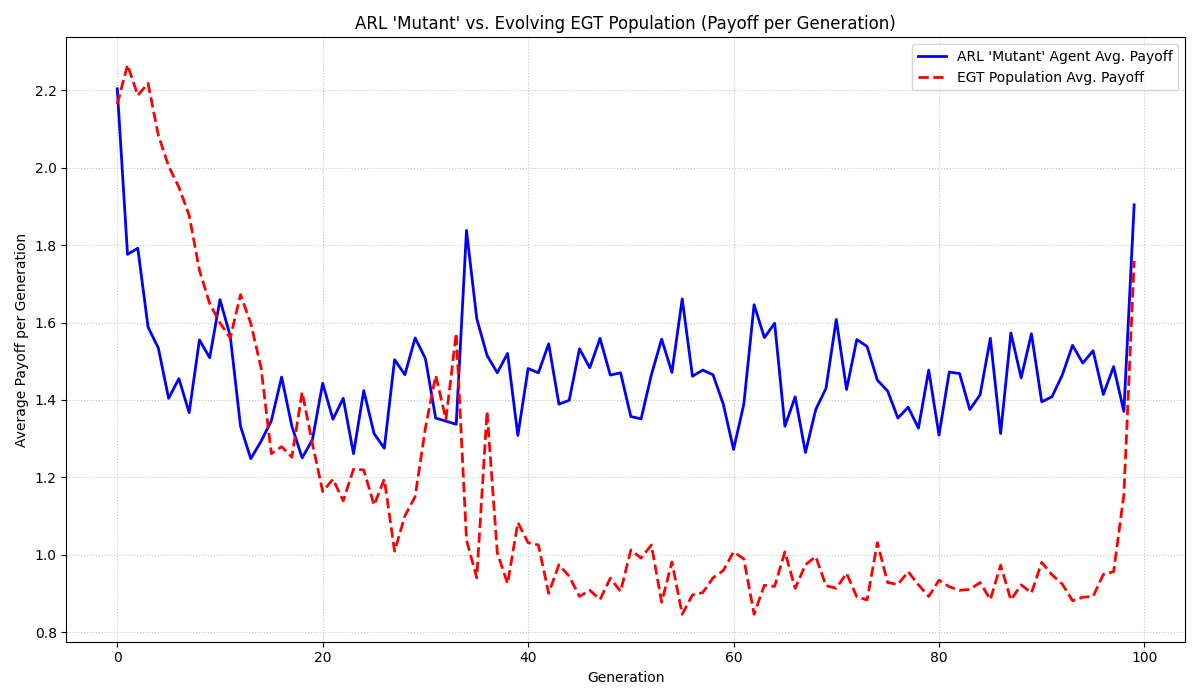
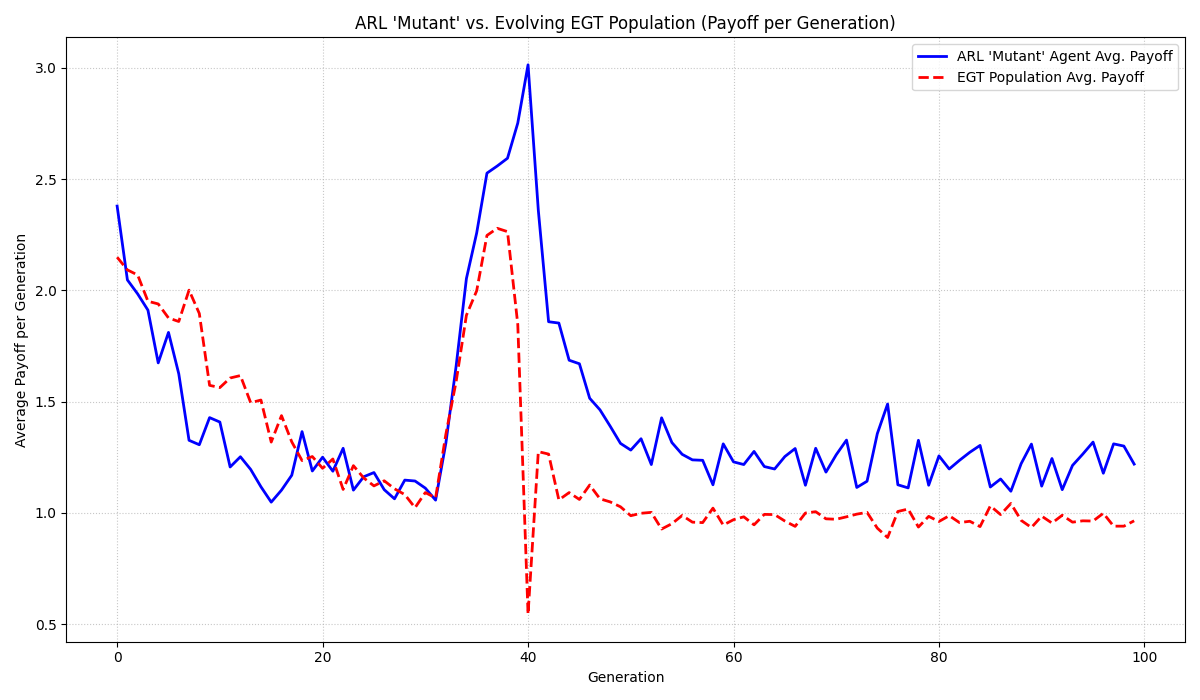
done?

diff --git a/test.py b/test.py
@@ -128,12 +128,82 @@ class ARLAgent:
         if self.epsilon > self.epsilon_min:
             self.epsilon *= self.epsilon_decay
 
-# --- 4. Main Simulation ---
+# --- 4. Plotting Function ---
+
+def plot_results(arl_payoff_history, egt_payoff_history, population_composition_history, payoff_gap_history, num_egt_agents):
+    """
+    Generates and saves the payoff, population, and gap plots.
+    """
+    
+    # --- Plot 1: Payoff Comparison ---
+    plt.figure(figsize=(12, 7))
+    plt.plot(arl_payoff_history, label="ARL 'Mutant' Agent Avg. Payoff", color='blue', linewidth=2)
+    plt.plot(egt_payoff_history, label="EGT Population Avg. Payoff", color='red', linestyle='--', linewidth=2)
+    plt.title("ARL 'Mutant' vs. Evolving EGT Population (Payoff per Generation)")
+    plt.xlabel("Generation")
+    plt.ylabel("Average Payoff per Generation")
+    plt.legend()
+    plt.grid(True, linestyle=':', alpha=0.7)
+    plt.tight_layout()
+    
+    plot1_filename = "arl_vs_egt_payoff.png"
+    plt.savefig(plot1_filename)
+    print(f"\nPayoff plot saved as '{plot1_filename}'")
+    plt.close() # Use close() to free memory without showing the plot
+
+    # --- Plot 2: Population Dynamics ---
+    pop_df = pd.DataFrame(population_composition_history).fillna(0)
+    # Ensure all strategies are columns, even if one dies out
+    for strategy in STRATEGIES:
+        if strategy not in pop_df.columns:
+            pop_df[strategy] = 0
+    pop_df = pop_df[STRATEGIES] # Re-order columns for consistency
+    
+    plt.figure(figsize=(12, 7))
+    # Create stacked area plot
+    plt.stackplot(pop_df.index, 
+                  [pop_df[strategy] for strategy in STRATEGIES], 
+                  labels=STRATEGIES,
+                  alpha=0.8)
+    
+    plt.title("EGT Population Dynamics Over Generations")
+    plt.xlabel("Generation")
+    plt.ylabel(f"Number of Agents (out of {num_egt_agents})")
+    plt.legend(loc='upper left')
+    plt.grid(True, linestyle=':', alpha=0.7)
+    plt.tight_layout()
+
+    plot2_filename = "arl_vs_egt_population.png"
+    plt.savefig(plot2_filename)
+    print(f"Population plot saved as '{plot2_filename}'")
+    plt.close()
+
+    # --- Plot 3: The "Exploitation Gap" ---
+    plt.figure(figsize=(12, 5))
+    plt.plot(payoff_gap_history, label="Payoff Gap (ARL - EGT)", color='green', linewidth=2)
+    
+    # Add a 'zero' line for reference
+    plt.axhline(0, color='black', linestyle='--', linewidth=1.0, label="No Difference (0.0)")
+    
+    plt.title("Exploitation Gap (ARL Agent vs. EGT Population)")
+    plt.xlabel("Generation")
+    plt.ylabel("Payoff Difference (ARL Payoff - EGT Payoff)")
+    plt.legend()
+    plt.grid(True, linestyle=':', alpha=0.7)
+    plt.tight_layout()
+    
+    plot3_filename = "arl_vs_egt_gap.png"
+    plt.savefig(plot3_filename)
+    print(f"Exploitation gap plot saved as '{plot3_filename}'")
+    plt.close()
+
+# --- 5. Main Simulation ---
 
 def run_simulation(num_generations=100, 
                    rounds_per_generation=1000, 
                    num_egt_agents=100, 
-                   mutation_rate=0.2): # <-- CHANGED: Increased mutation rate
+                   mutation_rate=0.1,
+                   evolve_population=True): # Flag to control evolution
     
     # --- Initialization ---
     
@@ -152,9 +222,9 @@ def run_simulation(num_generations=100,
     population_composition_history = []
     
     print(f"Starting simulation...")
-    print(f"ARL Agent (Mutant) vs. Evolving Population of {num_egt_agents} EGT Agents.")
+    print(f"ARL Agent vs. Population of {num_egt_agents} EGT Agents.")
     print(f"{num_generations} generations, {rounds_per_generation} rounds per generation.")
-    print(f"Mutation Rate: {mutation_rate}")
+    print(f"Evolution Enabled: {evolve_population}, Mutation Rate: {mutation_rate}")
     print("-" * 30)
 
     # --- Generation Loop (Outer Loop) ---
@@ -218,34 +288,35 @@ def run_simulation(num_generations=100,
         arl_payoff_history.append(arl_avg)
         egt_payoff_history.append(egt_avg)
 
-        # 2. Create the next generation using tournament selection
-        new_population = []
-        for _ in range(num_egt_agents):
-            
-            # Check for mutation
-            if random.random() < mutation_rate:
-                new_population.append(EGTAgent(strategy=random.choice(STRATEGIES)))
-            
-            # Tournament Selection
-            else:
-                # Pick two random "parents"
-                p1_idx = random.randint(0, num_egt_agents - 1)
-                p2_idx = random.randint(0, num_egt_agents - 1)
+        # 2. Conditionally create the next generation
+        if evolve_population:
+            new_population = []
+            for _ in range(num_egt_agents):
                 
-                # Get their fitness (payoff)
-                p1_fitness = egt_payoffs_this_generation[p1_idx]
-                p2_fitness = egt_payoffs_this_generation[p2_idx]
+                # Check for mutation
+                if random.random() < mutation_rate:
+                    new_population.append(EGTAgent(strategy=random.choice(STRATEGIES)))
                 
-                # The winner (with higher fitness) reproduces
-                if p1_fitness > p2_fitness:
-                    winner_strategy = population[p1_idx].strategy
+                # Tournament Selection
                 else:
-                    winner_strategy = population[p2_idx].strategy
+                    # Pick two random "parents"
+                    p1_idx = random.randint(0, num_egt_agents - 1)
+                    p2_idx = random.randint(0, num_egt_agents - 1)
                     
-                new_population.append(EGTAgent(strategy=winner_strategy))
-        
-        # The new generation replaces the old one
-        population = new_population
+                    # Get their fitness (payoff)
+                    p1_fitness = egt_payoffs_this_generation[p1_idx]
+                    p2_fitness = egt_payoffs_this_generation[p2_idx]
+                    
+                    # The winner (with higher fitness) reproduces
+                    if p1_fitness > p2_fitness:
+                        winner_strategy = population[p1_idx].strategy
+                    else:
+                        winner_strategy = population[p2_idx].strategy
+                        
+                    new_population.append(EGTAgent(strategy=winner_strategy))
+            
+            # The new generation replaces the old one
+            population = new_population
 
         if gen % (num_generations // 10) == 0 or gen == 1:
             print(f"Generation {gen}/{num_generations}...")
@@ -273,54 +344,33 @@ def run_simulation(num_generations=100,
         
     # --- 6. Plotting ---
     
-    # Plot 1: Payoff Comparison
-    plt.figure(figsize=(12, 7))
-    plt.plot(arl_payoff_history, label="ARL 'Mutant' Agent Avg. Payoff", color='blue', linewidth=2)
-    plt.plot(egt_payoff_history, label="EGT Population Avg. Payoff", color='red', linestyle='--', linewidth=2)
-    plt.title("ARL 'Mutant' vs. Evolving EGT Population (Payoff per Generation)")
-    plt.xlabel("Generation")
-    plt.ylabel("Average Payoff per Generation")
-    plt.legend()
-    plt.grid(True, linestyle=':', alpha=0.7)
-    plt.tight_layout()
+    # Calculate the payoff gap
+    payoff_gap_history = [arl - egt for arl, egt in zip(arl_payoff_history, egt_payoff_history)]
     
-    plot1_filename = "arl_vs_egt_payoff.png"
-    plt.savefig(plot1_filename)
-    print(f"\nPayoff plot saved as '{plot1_filename}'")
-    plt.show()
-
-    # Plot 2: Population Dynamics
-    pop_df = pd.DataFrame(population_composition_history).fillna(0)
-    # Ensure all strategies are columns, even if one dies out
-    for strategy in STRATEGIES:
-        if strategy not in pop_df.columns:
-            pop_df[strategy] = 0
-    pop_df = pop_df[STRATEGIES] # Re-order columns for consistency
-    
-    plt.figure(figsize=(12, 7))
-    # Create stacked area plot
-    plt.stackplot(pop_df.index, 
-                  [pop_df[strategy] for strategy in STRATEGIES], 
-                  labels=STRATEGIES,
-                  alpha=0.8)
-    
-    plt.title("EGT Population Dynamics Over Generations")
-    plt.xlabel("Generation")
-    plt.ylabel(f"Number of Agents (out of {num_egt_agents})")
-    plt.legend(loc='upper left')
-    plt.grid(True, linestyle=':', alpha=0.7)
-    plt.tight_layout()
-
-    plot2_filename = "arl_vs_egt_population.png"
-    plt.savefig(plot2_filename)
-    print(f"Population plot saved as '{plot2_filename}'")
-    plt.show()
+    # Pass all data to the plotting function
+    plot_results(
+        arl_payoff_history, 
+        egt_payoff_history, 
+        population_composition_history, 
+        payoff_gap_history,
+        num_egt_agents
+    )
+    print("\n--- Plotting Complete ---")
 
 
 # --- Run the main function ---
 if __name__ == "__main__":
+    # Run the simulation with evolution ENABLED
     run_simulation(num_generations=100, 
                    rounds_per_generation=1000, 
                    num_egt_agents=100, 
-                   mutation_rate=0.2) # <-- CHANGED: Increased mutation rate
+                   mutation_rate=0.1,
+                   evolve_population=True)
 
+    # --- To run the "Static" experiment, you would call this: ---
+    # print("\n\n--- RUNNING EXPERIMENT: ARL vs. STATIC Population ---")
+    # run_simulation(num_generations=100, 
+    #                rounds_per_generation=1000, 
+    #                num_egt_agents=100, 
+    #                mutation_rate=0.0,
+    #                evolve_population=False)
